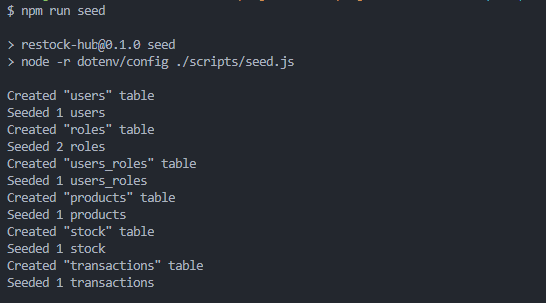
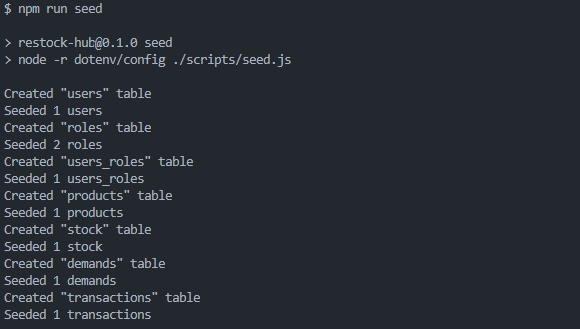
fixed sql scripts in `seed.js`, added more placeholder data and created first simple data display at `dashboard/demands`

Changed region(s): [[0.0, 0.2673, 0.3736, 0.9802], [0.0, 0.0891, 0.5293, 0.2376], [0.0, 0.0, 0.1868, 0.0594]]

diff --git a/app/lib/placeholder-data.js b/app/lib/placeholder-data.js
@@ -1,6 +1,6 @@
 const users = [
 	{
-		id: "3958dc9e-712f-4377-85e9-fec4b6a6442a",
+		id: "0fb5eb4f-966f-4a3c-a3e8-058269f10c44",
 		name: "Rafael Brizuena",
 		email: "rafael@mail.com",
 		country: "Brazil",
@@ -9,15 +9,25 @@ const users = [
 		address: "15 street, 190",
 		password: "123456",
 	},
+	{
+		id: "13d45148-8404-4651-a381-34f7fdffa8cc",
+		name: "Marcelo Ferreira",
+		email: "marcelo@mail.com",
+		country: "Brazil",
+		state: "Rio Grande do Norte",
+		city: "Natal",
+		address: "Lemon street, 901",
+		password: "123456",
+	},
 ];
 
 const roles = [
 	{
-		id: "3958dc9e-712f-4377-85e9-fec4b6a6442b",
+		id: "24a504a0-8ee2-44f4-ae42-2b6090b73af7",
 		role_name: "Buyer",
 	},
 	{
-		id: "3958dc9e-712f-4377-85e9-fec4b6a6442c",
+		id: "d4e3d93a-b827-427d-b03a-629cb786f568",
 		role_name: "Supplier",
 	},
 ];
@@ -31,10 +41,16 @@ const users_roles = [
 
 const products = [
 	{
-		id: "3958dc9e-712f-4377-85e9-fec4b6a6442d",
+		id: "850353dc-68dc-42fa-8faa-607b7f3c63d5",
 		name: "Internet Cable",
 		description: "5m CAT5E Internet Cable",
 		price: 5,
+	},
+	{
+		id: "8e86ceac-05e0-4181-9a55-77915ede5b2e",
+		name: "iPhone 19",
+		description: "iPhone 19 is super cool!",
+		price: 5000,
 	},
 ];
 
@@ -48,9 +64,18 @@ const stock = [
 
 const demands = [
 	{
-		id: "3958dc9e-712f-4377-85e9-fec4b6a6442f",
-		client_id: "3958dc9e-712f-4377-85e9-fec4b6a6442a",
+		id: "71fa0908-19f6-4d0a-b46a-597fa8accaa1",
+		client_id: "0fb5eb4f-966f-4a3c-a3e8-058269f10c44",
 		description: "I need 100 5m CAT5E internet cables",
+		keywords: "internet cable cat5e 5m",
+		date: "2024-01-14 19:42:57",
+		status: "open",
+	},
+	{
+		id: "91f2898c-2d11-4e79-b412-d3b2f1bf35ff",
+		client_id: "13d45148-8404-4651-a381-34f7fdffa8cc",
+		description:
+			"I love internet cables, so I want to buy everithing you may have. I like the 5m CAT5E internet cables.",
 		keywords: "internet cable cat5e 5m",
 		date: "2024-01-14 19:42:57",
 		status: "open",
@@ -59,10 +84,10 @@ const demands = [
 
 const transactions = [
 	{
-		id: "3958dc9e-712f-4377-85e9-fec4b6a6442e",
-		buyer_id: "3958dc9e-712f-4377-85e9-fec4b6a6442a",
-		supplier_id: "3958dc9e-712f-4377-85e9-fec4b6a6442a",
-		product_id: "3958dc9e-712f-4377-85e9-fec4b6a6442d",
+		id: "ee2b9e0b-fe40-430f-a9f0-15d44cc76744",
+		buyer_id: "0fb5eb4f-966f-4a3c-a3e8-058269f10c44",
+		supplier_id: "0fb5eb4f-966f-4a3c-a3e8-058269f10c44",
+		product_id: "850353dc-68dc-42fa-8faa-607b7f3c63d5",
 		quantity: 5,
 		total_value: 25,
 		transaction_date: "2024-01-14 15:30:00",

diff --git a/scripts/seed.js b/scripts/seed.js
@@ -82,10 +82,10 @@ async function seedRoles(client) {
 
 		return {
 			createTable,
-			invoices: insertedRoles,
+			roles: insertedRoles,
 		};
 	} catch (error) {
-		console.error("Error seeding invoices:", error);
+		console.error("Error seeding roles:", error);
 		throw error;
 	}
 }
@@ -130,6 +130,7 @@ async function seedUsersRoles(client) {
 
 async function seedProducts(client) {
 	try {
+		await client.sql`CREATE EXTENSION IF NOT EXISTS "uuid-ossp"`;
 		// Create the "products" table if it doesn't exist
 		const createTable = await client.sql`
       CREATE TABLE IF NOT EXISTS products (
@@ -206,6 +207,7 @@ async function seedStock(client) {
 
 async function seedDemands(client) {
 	try {
+		await client.sql`CREATE EXTENSION IF NOT EXISTS "uuid-ossp"`;
 		// Create the "demands" table if it doesn't exist
 		const createTable = await client.sql`
 		CREATE TABLE IF NOT EXISTS demands (
@@ -223,7 +225,8 @@ async function seedDemands(client) {
 		const insertedDemands = await Promise.all(
 			demands.map(
 				(demand) =>
-					client.sql`INSERT INTO demands (id, client_id, description, keywords, date, status) VALUES (${demand.id}, ${demand.client_id}, ${demand.description}, ${demand.keywords}, ${demand.date}, ${demand.status})`
+					client.sql`INSERT INTO demands (id, client_id, description, keywords, date, status) VALUES (${demand.id}, ${demand.client_id}, ${demand.description}, ${demand.keywords}, ${demand.date}, ${demand.status})
+					ON CONFLICT (id) DO NOTHING;`
 			)
 		);
 
@@ -241,6 +244,7 @@ async function seedDemands(client) {
 
 async function seedTransactions(client) {
 	try {
+		await client.sql`CREATE EXTENSION IF NOT EXISTS "uuid-ossp"`;
 		// Create the "transactions" table if it doesn't exist
 		const createTable = await client.sql`
       CREATE TABLE IF NOT EXISTS transactions (

diff --git a/app/dashboard/demands/page.js b/app/dashboard/demands/page.js
@@ -1,3 +1,24 @@
-export default function Page() {
-	return <p>Demands Page</p>;
+import { fetchLatestDemands } from "@/app/lib/data";
+
+export default async function Page() {
+	const latestDemands = await fetchLatestDemands();
+
+	return (
+		<main>
+			<h1 className="font-bold text-2xl pb-2">Demands</h1>
+			<div>
+				{latestDemands.map((demand) => {
+					return (
+						<div
+							className="bg-slate-100 rounded-lg p-1.5 hover:bg-slate-200 my-2"
+							key={demand.id}
+						>
+							<h2 className="font-bold">Client name</h2>
+							<p>{demand.description}</p>
+						</div>
+					);
+				})}
+			</div>
+		</main>
+	);
 }

diff --git a/app/lib/data.ts b/app/lib/data.ts
@@ -1,1 +1,14 @@
 import { sql } from "@vercel/postgres";
+
+export async function fetchLatestDemands() {
+	// noStore();
+	try {
+		const data = await sql`SELECT id, description FROM demands;`;
+		console.log(data.rows);
+		const demands = data.rows;
+		return demands;
+	} catch (error) {
+		console.error("Database Error:", error);
+		throw new Error("Failed to fetch the latest demands.");
+	}
+}
